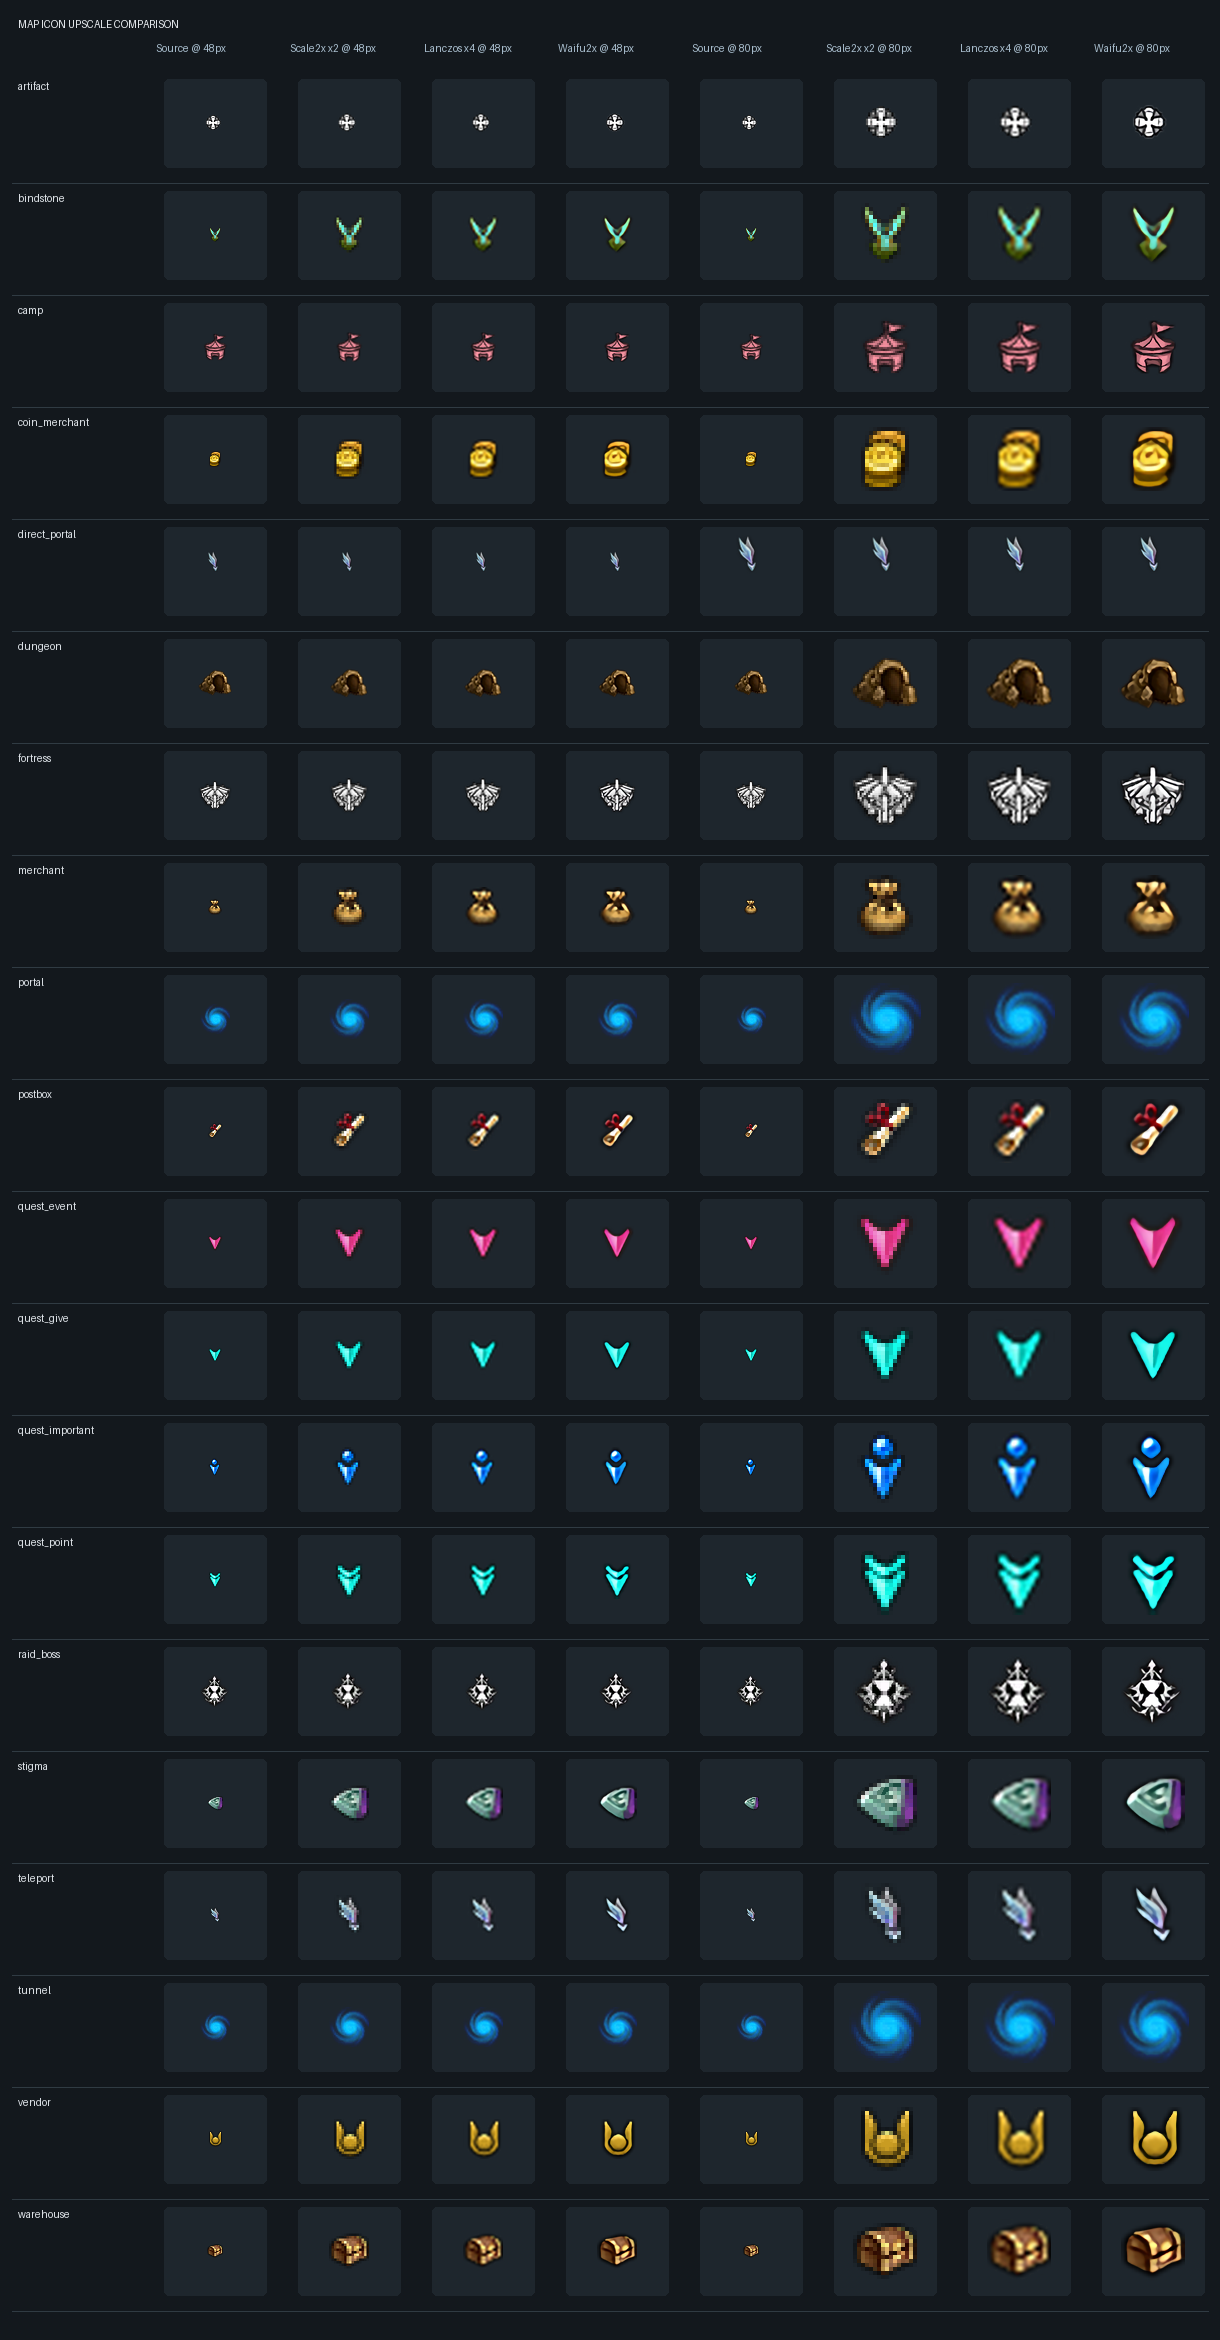
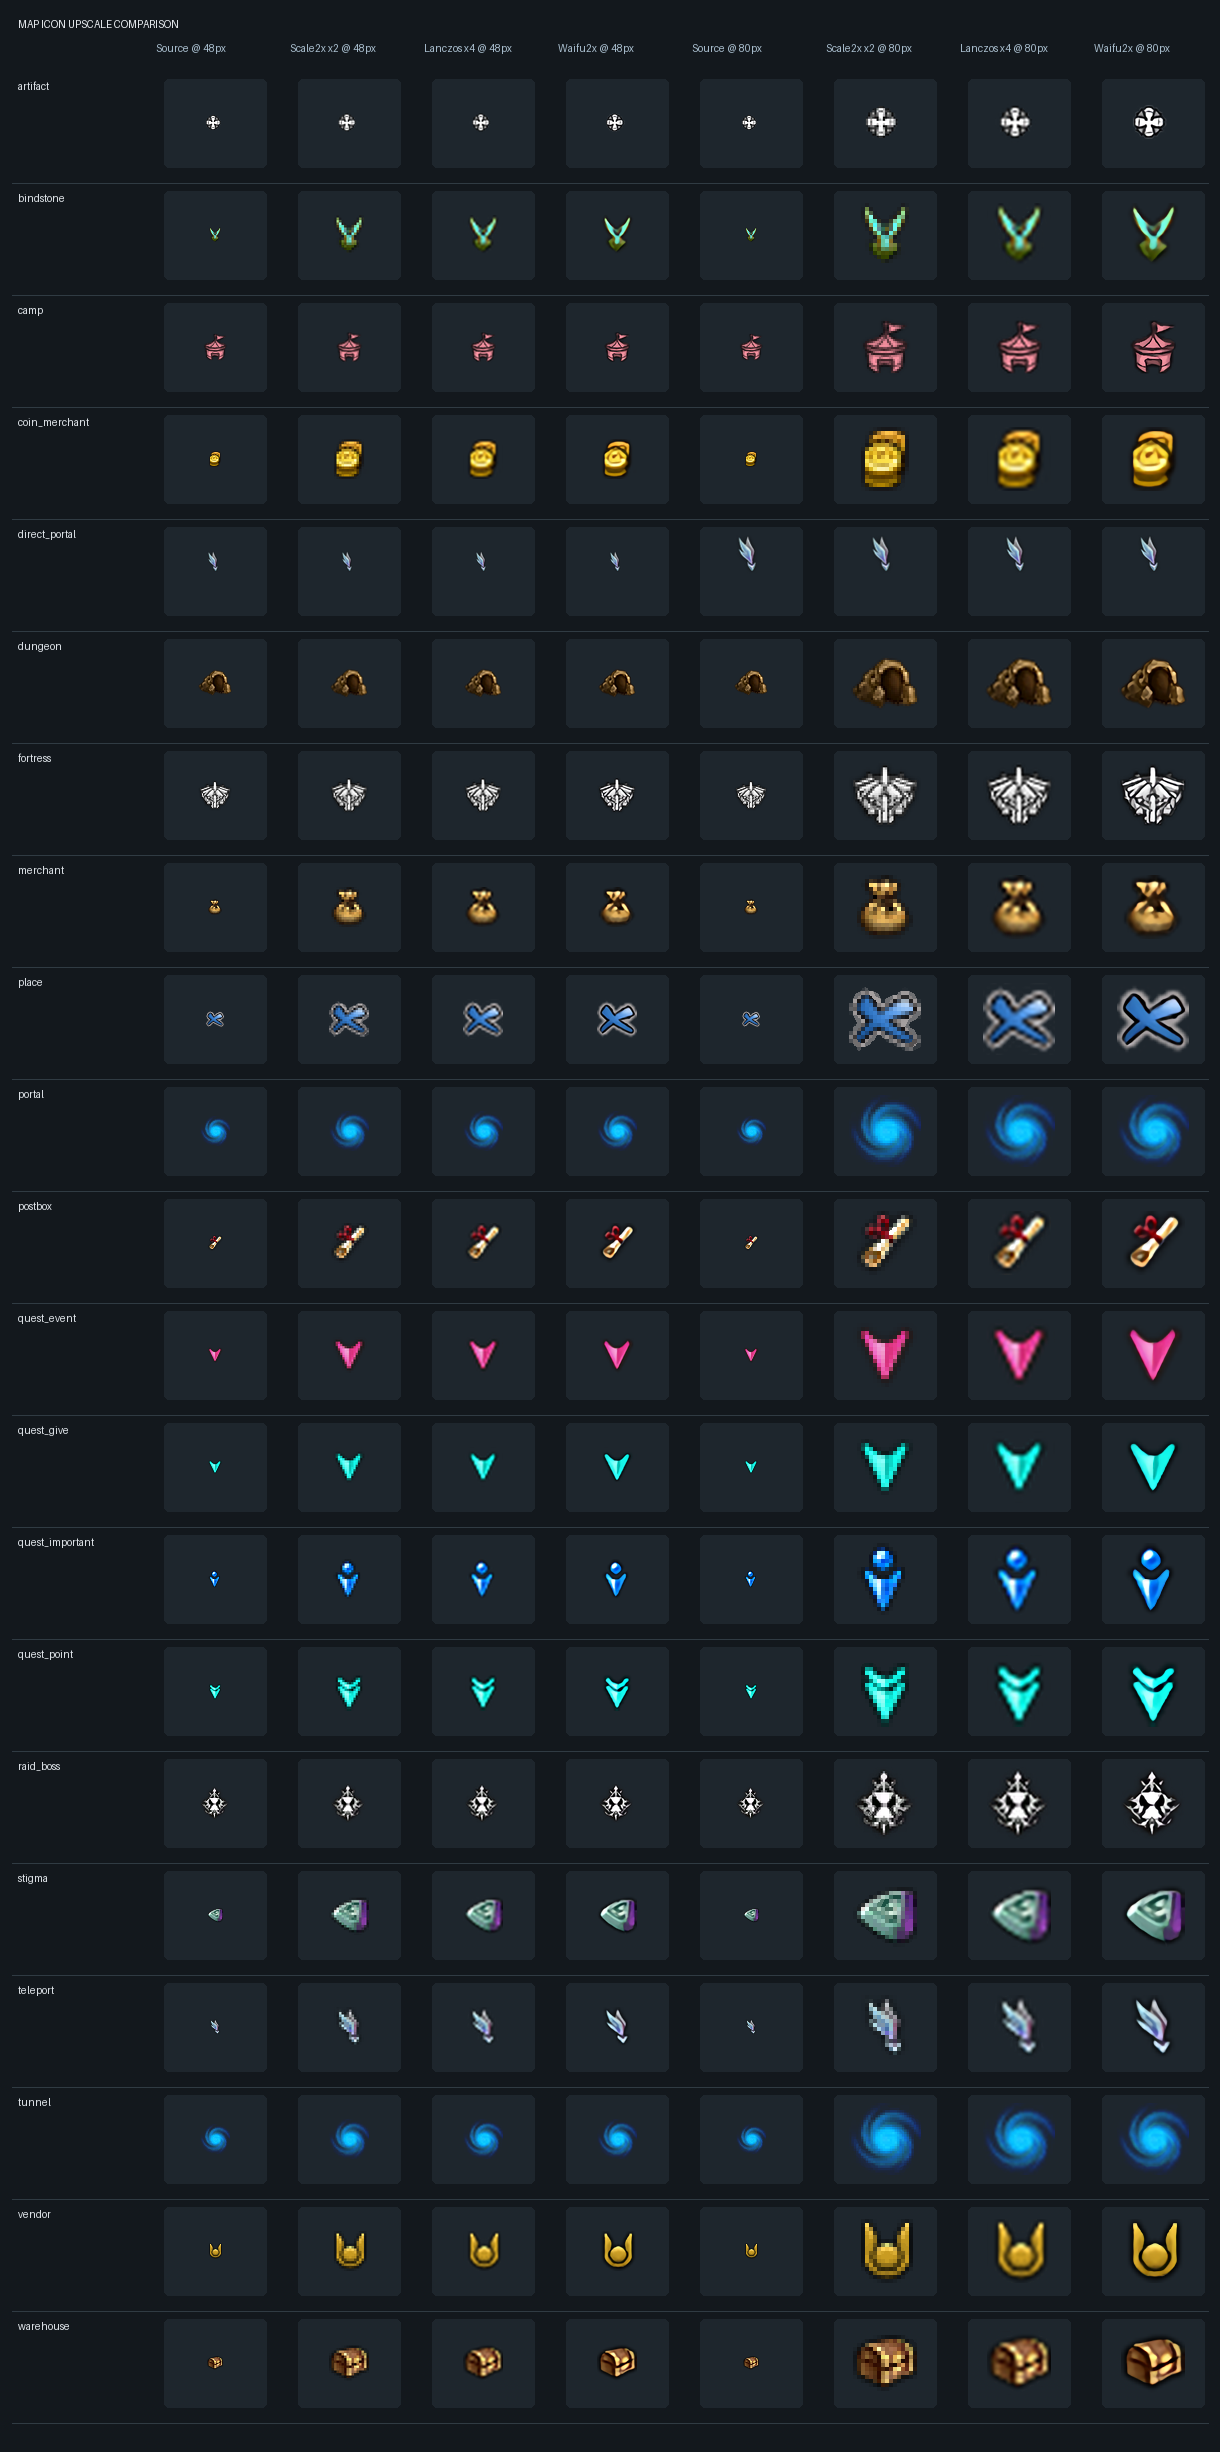
feat(map): blink found points for 3 s, ring on click; the game's blue X for chat places

diff --git a/watcher/mapview.py b/watcher/mapview.py
@@ -44,6 +44,11 @@ LABELS_MIN_WIDTH = 1300  # px the zone must take on screen before area names are
 LABELS_ZOOM_WIDTH = 4000  # px before the «zoom» names (camps, gates, small places) are drawn too
 LABEL_LEVELS = ("main", "zoom")
 PIN = theme.ACCENT
+PLACE_ICON = 34  # px of the blue X that marks a place from the chat, as on the game's map
+# a point found by the search or reached from «Рядом», and a place from the chat, blink this long so the eye
+# finds them; a point picked with a click is ringed at once
+BLINK_MS = 3000
+BLINK_STEP_MS = 300
 OTHER_PIN = "#4fd1c5"
 BG_RGB = tuple(int(theme.SURFACE[i : i + 2], 16) for i in (1, 3, 5))
 
@@ -166,6 +171,10 @@ class MapView(ttk.Frame):
         self._image = None  # PIL image of the zone
         self._photo = None
         self._render_after: str | None = None
+        self._blink_target: str | None = None  # "poi" (the selected point) or "pin" (the chat's place)
+        self._blink_left = 0
+        self._blink_dim = False
+        self._blink_after: str | None = None
         self._drag: tuple[int, int, float, float] | None = None
         self._by_name = {zone.name: map_id for map_id, zone in sorted(zones.items(), key=lambda kv: kv[1].name)}
 
@@ -257,6 +266,7 @@ class MapView(ttk.Frame):
             return
         self.place = None
         self.selected = None
+        self._stop_blink()
         self.point_card.clear()
         self._set_zone(zone)
         self.title.configure(text="")
@@ -281,6 +291,7 @@ class MapView(ttk.Frame):
         self.update_idletasks()
         if self.zoom < self._fit_zoom() * 2:
             self.zoom = min(MAX_ZOOM, self._fit_zoom() * 2)
+        self._start_blink("pin")
         self.center_on(*zone.to_image(place.x, place.y))
 
     def center_on(self, image_x: float, image_y: float) -> None:
@@ -391,7 +402,7 @@ class MapView(ttk.Frame):
         canvas.create_image(0, 0, image=self._photo, anchor="nw")
         self._draw_labels(width, height)
         self._draw_poi(width, height)
-        if self.selected is not None and self.selected.zone == self.zone.map_id:
+        if self.selected is not None and self.selected.zone == self.zone.map_id and self._blink_target != "poi":
             sx, sy = self._spots.get(self.selected) or self.to_screen(self.selected.x, self.selected.y)
             canvas.create_oval(sx - 17, sy - 17, sx + 17, sy + 17, outline=PIN, width=3, tags="selected")
         for index, other in enumerate(self.others):
@@ -400,14 +411,21 @@ class MapView(ttk.Frame):
                                tags=("other", f"other_{index}"))
         if self.place is not None:
             sx, sy = self.to_screen(*self.zone.to_image(self.place.x, self.place.y))
-            canvas.create_oval(sx - 13, sy - 13, sx + 13, sy + 13, outline=PIN, width=3, tags="pin")
-            canvas.create_oval(sx - 5, sy - 5, sx + 5, sy + 5, fill=PIN, outline="", tags="pin")
+            pin = ("pin", "blink") if self._blink_target == "pin" else "pin"
+            cross = self._place_icon()
+            if cross is not None:
+                canvas.create_image(sx, sy, image=cross, tags=pin)
+            else:
+                canvas.create_oval(sx - 13, sy - 13, sx + 13, sy + 13, outline=PIN, width=3, tags=pin)
+                canvas.create_oval(sx - 5, sy - 5, sx + 5, sy + 5, fill=PIN, outline="", tags=pin)
             font = (theme.FONT_FAMILY, theme.FONT_SIZE, "bold")
             for dx, dy in ((-1, 0), (1, 0), (0, -1), (0, 1), (1, 1)):  # dark outline, like the area names
                 canvas.create_text(sx + 18 + dx, sy - 2 + dy, text=self.place.label, anchor="w", fill="#0d0e11",
                                    font=font, tags="pin")
             canvas.create_text(sx + 18, sy - 2, text=self.place.label, anchor="w", fill="#ffffff", font=font,
                                tags="pin")
+        if self._blink_dim:
+            canvas.itemconfigure("blink", state="hidden")
 
     def _draw_labels(self, width: int, height: int) -> None:
         """Area names, like the game map: white text with a dark outline; size follows the zoom.
@@ -444,10 +462,15 @@ class MapView(ttk.Frame):
         return out
 
     def select(self, poi: Poi, centre: bool = False) -> None:
-        """Show a point in the card (and ring it on the map)."""
+        """Show a point in the card. A click (centre=False) rings it on the map; the search and «Рядом»
+        (centre=True) move the map to it and make its icon blink for BLINK_MS, then ring it."""
         self.selected = poi
         kind = self.poi.type_name(poi.type)
         self.point_card.show(kind, poi.name or kind, poi.gx, poi.gy, poi.note, self.nearby(poi.zone, poi.gx, poi.gy, poi))
+        if centre:
+            self._start_blink("poi")
+        else:
+            self._stop_blink()
         if centre:
             self.center_on(poi.x, poi.y)
         else:
@@ -554,6 +577,12 @@ class MapView(ttk.Frame):
             size += 8
         return round(size * ICON_SCALE.get(type_, 1.0))
 
+    def _place_icon(self):
+        key = ("place", PLACE_ICON)
+        if key not in self._poi_icons:
+            self._poi_icons[key] = load_icon(self.icons_dir / "place.png", PLACE_ICON, self.canvas)
+        return self._poi_icons[key]
+
     def _poi_icon(self, type_: str, size: int):
         key = (type_, size)
         if key not in self._poi_icons:
@@ -586,6 +615,8 @@ class MapView(ttk.Frame):
             if not (-size < sx < width + size and -size < sy < height + size):
                 continue
             tags = ("poi", f"poi_{len(self._drawn)}")
+            if self._blink_target == "poi" and self.selected in members:
+                tags += ("blink",)
             self._drawn.append((sx, sy, members))
             icon = self._poi_icon(members[0].type, size)
             if icon is not None:
@@ -597,6 +628,35 @@ class MapView(ttk.Frame):
                 canvas.create_oval(bx - 9, by - 9, bx + 9, by + 9, fill="#0d0e11", outline=theme.ACCENT, tags=tags)
                 canvas.create_text(bx, by, text=str(len(members)) if len(members) < 100 else "99+",
                                    fill="#ffffff", font=(theme.FONT_FAMILY, 8, "bold"), tags=tags)
+
+    # --- blinking ---------------------------------------------------------------------------
+    def _start_blink(self, target: str) -> None:
+        self._stop_blink(redraw=False)
+        self._blink_target = target
+        self._blink_left = BLINK_MS // BLINK_STEP_MS
+        self._blink_dim = False
+        self._blink_after = self.after(BLINK_STEP_MS, self._blink_tick)
+
+    def _stop_blink(self, redraw: bool = True) -> None:
+        if self._blink_after is not None:
+            self.after_cancel(self._blink_after)
+            self._blink_after = None
+        was = self._blink_target
+        self._blink_target = None
+        self._blink_dim = False
+        if was and redraw:
+            self._schedule_render()
+
+    def _blink_tick(self) -> None:
+        """Hide / show the blinking items; when the time is up the point gets its usual ring."""
+        self._blink_after = None
+        self._blink_left -= 1
+        if self._blink_left <= 0:
+            self._stop_blink()
+            return
+        self._blink_dim = not self._blink_dim
+        self.canvas.itemconfigure("blink", state="hidden" if self._blink_dim else "normal")
+        self._blink_after = self.after(BLINK_STEP_MS, self._blink_tick)
 
     def _split(self, points: list[Poi]) -> list[tuple[float, float, list[Poi]]]:
         """Single icons that never cover each other: touching points are laid out side by side; if a laid-out row

diff --git a/tests/test_mapview.py b/tests/test_mapview.py
@@ -181,10 +181,12 @@ def test_point_card_and_nearby(root):
     types = [t for t, _name, _m in view.point_card.rows]
     assert types[:3] == ["teleport", "bindstone", "warehouse"]
     assert all(m < 600 for t, _n, m in view.point_card.rows if t in ("warehouse", "merchant"))
-    # clicking a «Рядом» row selects that point and rings it
+    # clicking a «Рядом» row jumps to that point: it blinks first, then gets the ring
     view.point_card.near.winfo_children()[types.index("warehouse")].event_generate("<Button-1>")
     root.update()
     assert view.selected is not None and view.selected.type == "warehouse"
+    assert view._blink_target == "poi"
+    view._stop_blink()
     view.render()
     assert view.canvas.find_withtag("selected")
     # a click (no drag) on a single drawn point opens its card
@@ -293,6 +295,41 @@ def test_fortresses_tunnel_and_dungeons_drawn_bigger(root):
         assert view._icon_size("fortress") == view._icon_size("tunnel") == round(usual * 1.85)  # +85 %
         assert view._icon_size("dungeon") == round(usual * 1.5)  # +50 %
         assert view._icon_size("portal") == usual  # Abyss gates and the tunnel's exits stay as they were
+
+
+def test_click_rings_the_point_search_and_jumps_blink_first(root):
+    from watcher.poi import PoiStore
+
+    store = PoiStore.load(resource_root() / "data" / "maps" / "poi.json")
+    view = MapView(root, zones(), poi=store, icons_dir=resource_root() / "data" / "maps" / "icons")
+    view.pack(fill="both", expand=True)
+    root.geometry("1300x900")
+    root.update()
+    view.open_zone("220070000")
+    teleport = next(iter(view.poi.in_zone("220070000", {"teleport"})))
+    view.select(teleport)  # a click: the ring at once, no blinking
+    view.render()
+    assert view._blink_target is None and view.canvas.find_withtag("selected")
+    view.search("привратник", 0)  # the search: no ring yet, the found icon blinks
+    view.render()
+    assert view._blink_target == "poi" and not view.canvas.find_withtag("selected")
+    assert view.canvas.find_withtag("blink")
+    view._blink_tick()
+    assert all(view.canvas.itemcget(i, "state") == "hidden" for i in view.canvas.find_withtag("blink"))
+    view.render()  # a redraw keeps the phase
+    assert all(view.canvas.itemcget(i, "state") == "hidden" for i in view.canvas.find_withtag("blink"))
+    for _ in range(20):
+        if view._blink_target is None:
+            break
+        view._blink_tick()
+    view.render()
+    assert view._blink_target is None and view.canvas.find_withtag("selected")  # 3 s later: the usual ring
+    view.show(Place("220070000", 1173.0, 1227.4, "Место"))  # a place from the chat blinks too
+    view.render()
+    blinking = set(view.canvas.find_withtag("blink"))
+    assert view._blink_target == "pin" and blinking and blinking < set(view.canvas.find_withtag("pin"))  # not the label
+    view.select(teleport)  # a click stops it
+    assert view._blink_target is None
 
 
 def test_small_game_icons_are_scaled_up_to_the_wanted_size(root):

diff --git a/tools/build_map_icons.py b/tools/build_map_icons.py
@@ -43,6 +43,9 @@ ICONS = {
     "quest_give": ("sprite", "v4_radar_quest_give_icon_zonemap"),
     "quest_important": ("sprite", "v4_radar_important_quest_give_icon_zonemap"),
     "quest_event": ("sprite", "v4_radar_event_quest_give_icon_zonemap"),
+    # the game's mark of a linked place («Место» from the chat): the X of the zone map; green in the atlas,
+    # blue in the game, so its green and blue channels are swapped (RECOLOR)
+    "place": ("sprite", "v4_radar_link_icon_zonemap"),
     "artifact": ("client", "abyss_artifact.png"),
     "fortress": ("client", "abyss_fortress.png"),
     "dungeon": ("client", "abyss_indun.png"),
@@ -65,6 +68,9 @@ ICONS = {
     "gather_fish": ("aiondb_url", "/upload/images/icon/items/icon_item_fish04.png"),
     "gather_other": ("client", "new_map_way_point.png"),
 }
+
+
+RECOLOR = {"place": "swap_green_blue"}
 
 
 def pattern_to_svg(pattern: str) -> str:
@@ -141,6 +147,12 @@ def main() -> int:
         out = OUT / f"{type_}.png"
         if source == "sprite":
             cut_sprite(key, sprites, out)
+            if RECOLOR.get(type_) == "swap_green_blue":
+                from PIL import Image
+
+                with Image.open(out) as image:
+                    r, g, b, a = image.convert("RGBA").split()
+                    Image.merge("RGBA", (r, b, g, a)).save(out)
         elif source == "client":
             out.write_bytes((EXTRACT / "icons" / key).read_bytes())
         elif source == "aiondb_url":

diff --git a/tools/upscale_icons.py b/tools/upscale_icons.py
@@ -49,6 +49,7 @@ SOURCES = {
     "direct_portal": ("client image client_extract/icons/teleport_dest_up.png", "32x78"),
     "camp": ("aiondb icon downloads/aiondb_icons map_icon_ui_camp", "36x36"),
     "tunnel": ("client image client_extract/icons/abyss_underpass.png", "30x30"),
+    "place": ("client sprite v4_common:v4_radar_link_icon_zonemap, green and blue swapped", "18x18"),
 }
 
 
